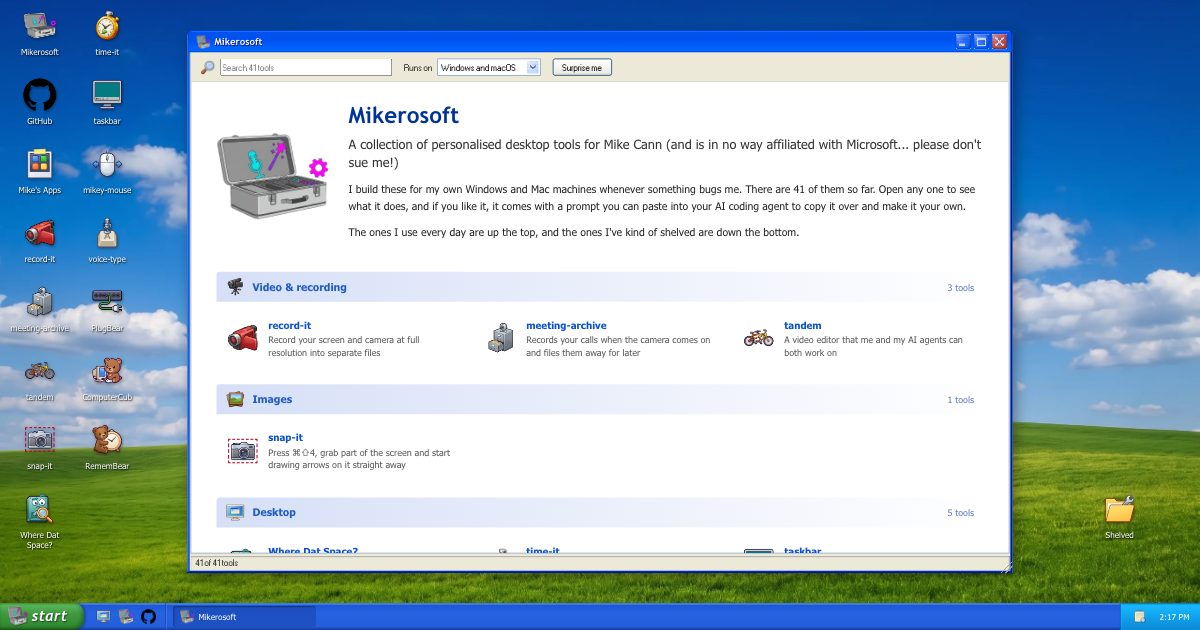
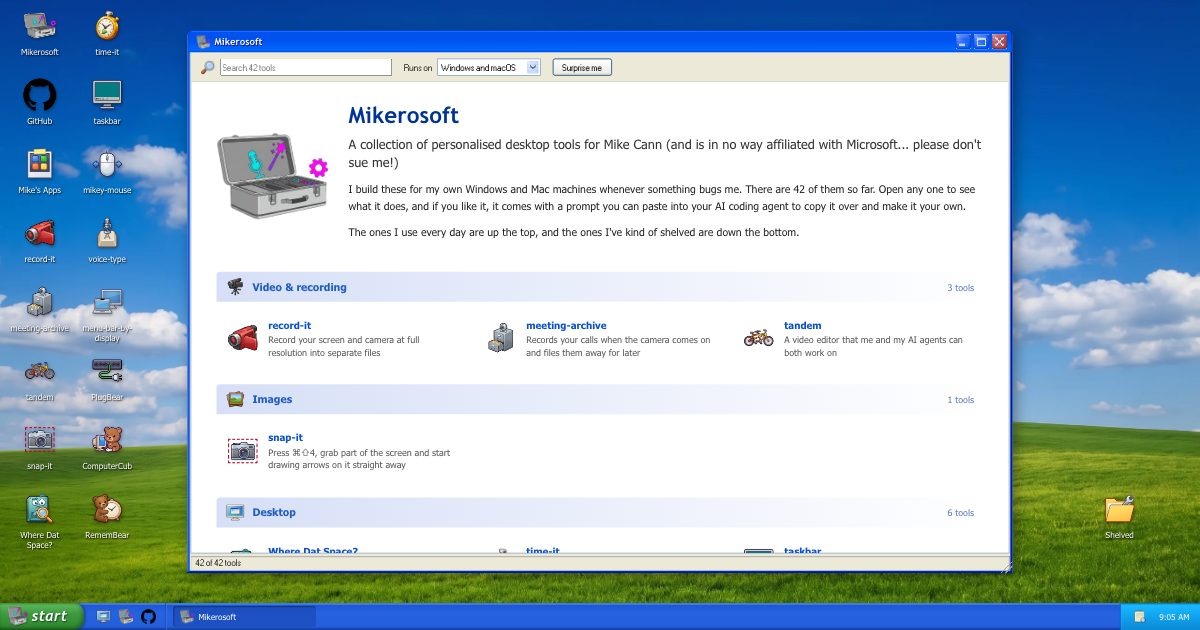
Add menu-bar-by-display to the desktop
I've been using the MacBook as my main screen, where the notch makes an
auto-hiding menu bar pointless, so this new tool keeps it shown on the
laptop screen and hides it again with a monitor plugged in. It runs all the
time, so it goes on the desktop. It gets its entry, page copy, a
laptop-and-monitor icon from sheet 6, and share images for its page and the
home desktop.

diff --git a/src/toolDetails.ts b/src/toolDetails.ts
@@ -305,4 +305,11 @@ export const toolDetails: Record<string, ToolDetails> = {
       "It was called Recall It for about a day. It's a bear now because it plugs into Threadbear, the app I run my agents in, same as BrowserBear and ComputerCub.",
     ],
   },
+  "menu-bar-by-display": {
+    tagline: "Keeps the menu bar on screen on a MacBook, and hides it again when you plug in a monitor",
+    intro: [
+      "I've been using my MacBook as my main screen lately, and on a laptop with a notch that strip at the top is dead space anyway. Even full screen windows stop below the notch, so having the menu bar auto-hide there just meant hovering up at the top for nothing.",
+      "On a big external monitor I do like it hidden though, and macOS only has the one setting for every screen. So this little background tool flips it for you: the menu bar is always shown when it's just the laptop screen, and goes back to auto-hiding as soon as a monitor is plugged in.",
+    ],
+  },
 };

diff --git a/src/tools.ts b/src/tools.ts
@@ -631,4 +631,15 @@ export const tools: Tool[] = [
     platforms: ['macos'],
     use: 'daily',
   },
+  {
+    name: 'menu-bar-by-display',
+    desc: 'Keeps the macOS menu bar on screen when the MacBook is the only display, where the notch wastes that strip anyway, and auto-hides it again when a monitor is plugged in',
+    icon: '/icons/menu-bar-by-display.png',
+    header: asset('menu-bar-by-display', 'docs/header.webp'),
+    screenshots: [asset('menu-bar-by-display', 'docs/menu-bar.png')],
+    url: repoUrl('menu-bar-by-display'),
+    category: 'Desktop',
+    platforms: ['macos'],
+    use: 'daily',
+  },
 ];

diff --git a/scripts/icons/generate.py b/scripts/icons/generate.py
@@ -87,6 +87,7 @@ SUBJECTS = [
     # rest of sheet 6: new tools
     ('computercub', 'a cute little brown bear cub sitting in front of a small computer monitor, one paw resting on a white computer mouse'),
     ('remembear', 'a cute little brown bear cub hugging a chunky round alarm clock with a pale face, a bold blue curved arrow wrapping around the clock anticlockwise'),
+    ('menu-bar-by-display', 'a small silver laptop with a black notch at the top centre of its screen and a light grey menu bar strip across the top of the screen, next to a bigger computer monitor whose screen has no menu bar'),
 ]
 
 PROMPT = """Make a 3x3 grid of 9 separate desktop application icons for a Windows 98 styled website.
